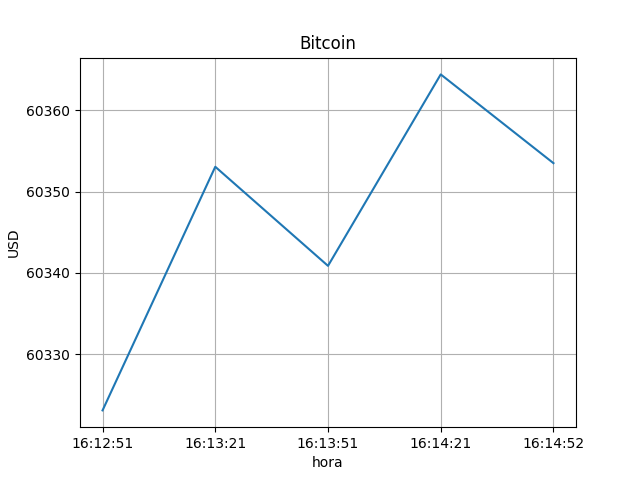
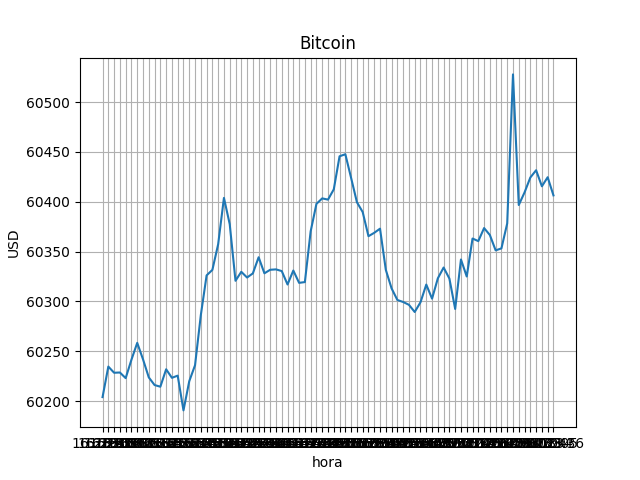
Atual

diff --git a/Python/bitcoin.py b/Python/bitcoin.py
@@ -21,7 +21,7 @@ while(loop):
         time.sleep(1)
         print(f'\t[{30-s}]',end='\r')
 
-    if (x == 5):
+    if (len(x) >= 1):
         fig, ax = plt.subplots()
         ax.plot(x, y)
         ax.set(xlabel='hora', ylabel='USD',
